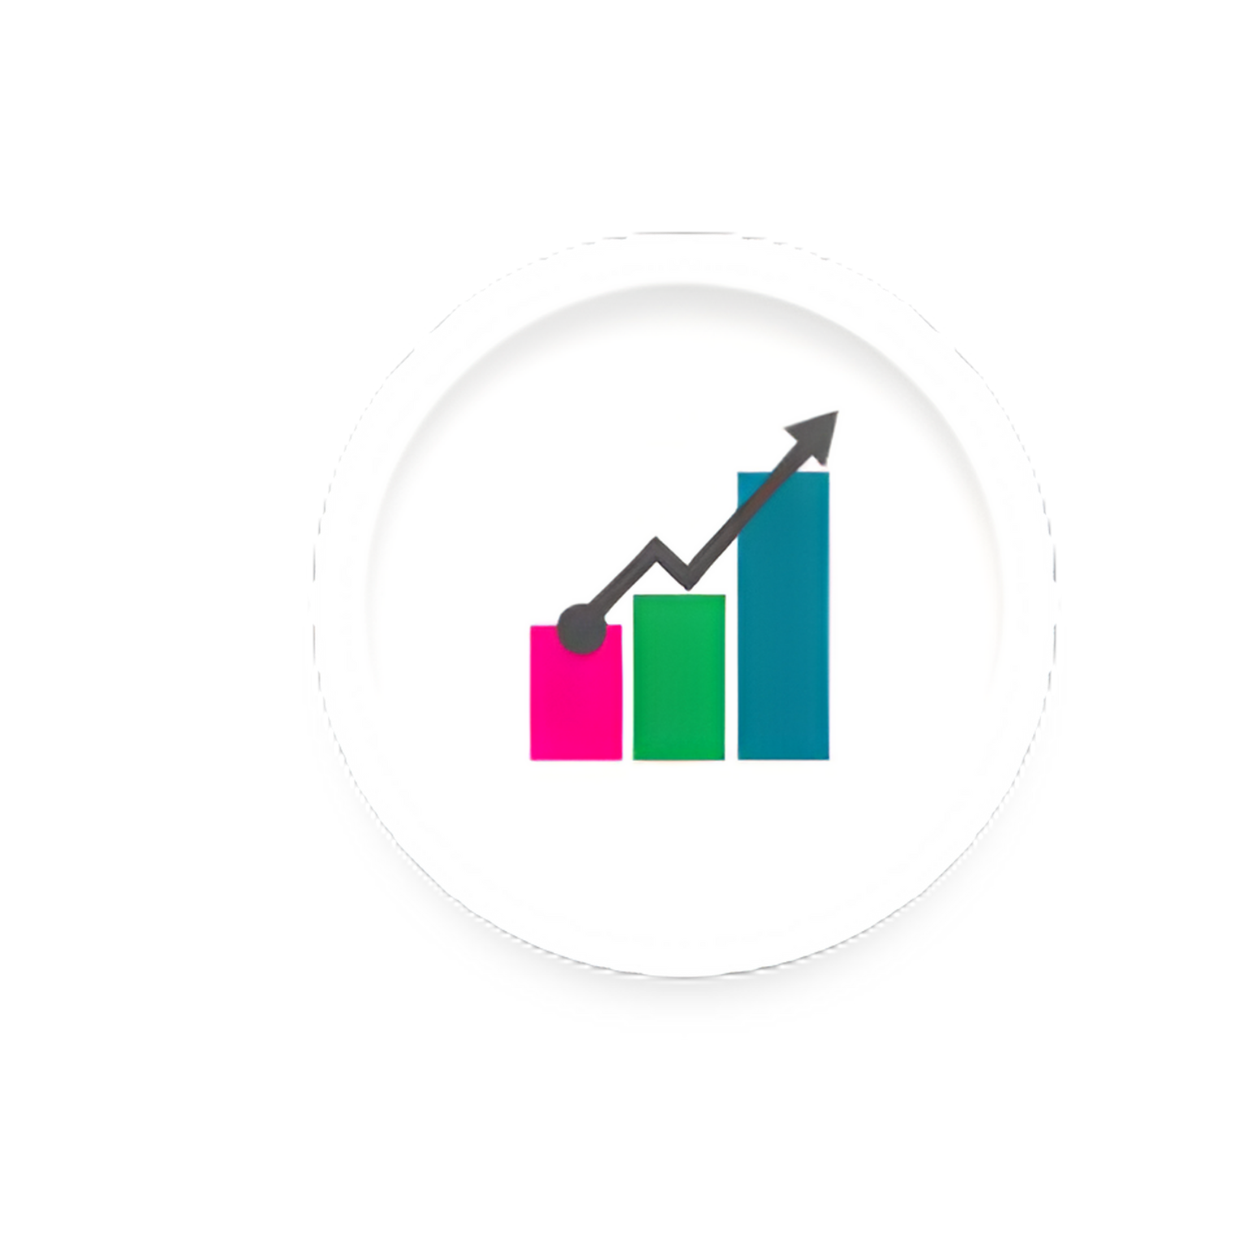
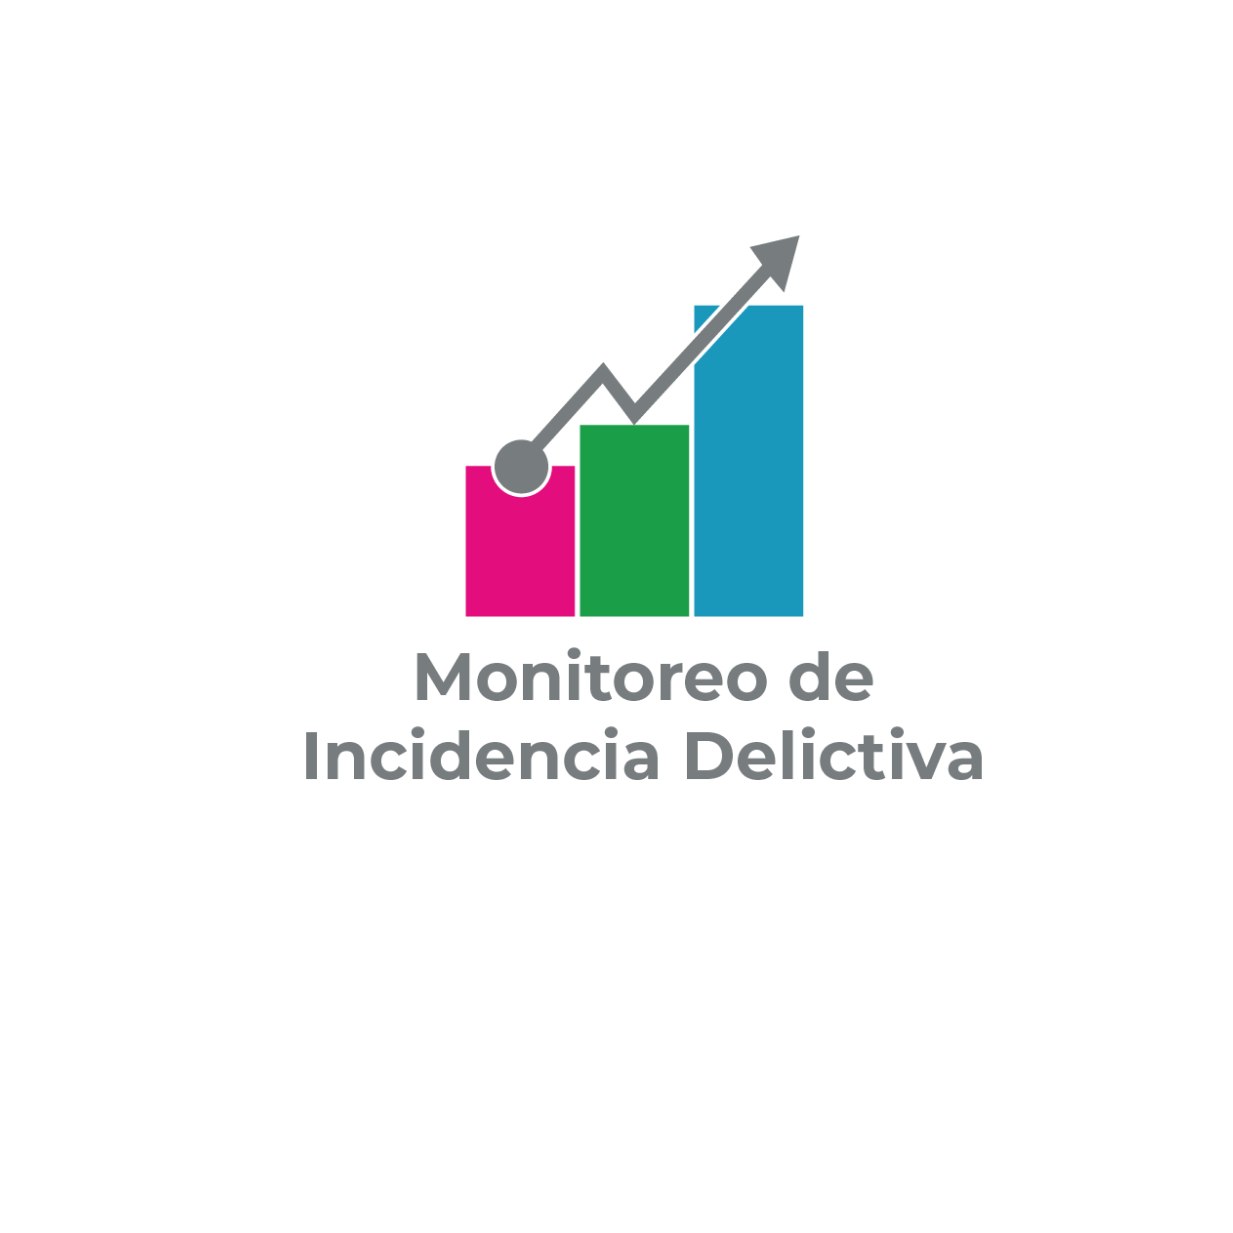
style: update AboutSection interactive image and styles

Changed region(s): [[0.2466, 0.1849, 0.8013, 0.6472], [0.6164, 0.7705, 0.6472, 0.8013], [0.5547, 0.7705, 0.5856, 0.8013]]

diff --git a/cci-svelte/src/lib/components/InteractiveProyectos.svelte b/cci-svelte/src/lib/components/InteractiveProyectos.svelte
@@ -19,7 +19,7 @@
 			id: 'hotspot_home',
 			href: '/',
 			x: 34.2,
-			y: 34.6,
+			y: 17.6,
 			width: 32.3,
 			height: 32.3,
 			title: 'CCI Laguna',
@@ -28,50 +28,10 @@
 			description: 'Organización ciudadana que promueve la participación cívica y transparencia'
 		},
 		{
-			id: 'hotspot_midlag',
-			href: '/midlag',
-			x: 12.7,
-			y: 3.5,
-			width: 27.9,
-			height: 27.9,
-			title: 'MIDLag',
-			image: '/images/proyectos/midlag-hotspot.png',
-			clipPath:
-				'polygon(2.03% 49.80%, 1.78% 52.64%, 4.22% 56.69%, 55.23% 96.59%, 60.83% 98.62%, 65.53% 97.16%, 76.72% 87.92%, 95.70% 75.67%, 97.57% 71.37%, 97.65% 68.13%, 76.80% 5.68%, 76.07% 4.14%, 73.97% 2.27%, 70.56% 0.73%, 66.75% 0.81%, 58.64% 4.46%, 33.66% 18.41%, 25.06% 24.98%, 9.73% 39.01%, 3.65% 45.66%, 2.03% 49.80%)',
-			description: 'Municipio Inteligente Digital - Plataforma de datos abiertos'
-		},
-		{
-			id: 'hotspot_observatorio',
-			href: 'https://observatoriodelalaguna.org.mx/',
-			x: 36.5,
-			y: -1,
-			width: 26.5,
-			height: 26.5,
-			title: 'Observatorio de la Laguna',
-			external: true,
-			image: '/images/proyectos/observatorio-hotspot.png',
-			clipPath:
-				'polygon(0.81% 18.57%, 1.46% 23.20%, 22.63% 89.54%, 26.60% 94.97%, 31.39% 96.43%, 47.61% 95.05%, 72.59% 95.62%, 77.86% 92.05%, 78.99% 90.02%, 99.11% 18.90%, 98.05% 14.44%, 95.38% 10.79%, 91.57% 9.08%, 73.64% 6.57%, 56.20% 5.11%, 43.96% 5.19%, 27.33% 7.14%, 8.52% 10.62%, 6.41% 11.52%, 2.11% 14.84%, 1.22% 16.14%, 0.81% 18.57%)',
-			description: 'Análisis y seguimiento de indicadores de seguridad ciudadana'
-		},
-		{
-			id: 'hotspot_mesa',
-			href: '/mesa-seguridad',
-			x: 59.6,
-			y: 4.1,
-			width: 27.5,
-			height: 27.5,
-			title: 'Mesa de Seguridad y Justicia',
-			image: '/images/proyectos/mesa-hotspot.png',
-			clipPath:
-				'polygon(1.95% 67.96%, 2.03% 74.37%, 5.03% 78.18%, 17.92% 85.48%, 36.33% 99.03%, 42.34% 99.19%, 44.28% 98.30%, 96.84% 55.39%, 98.54% 51.34%, 98.46% 47.04%, 96.51% 43.71%, 86.05% 33.90%, 70.15% 20.68%, 63.58% 16.22%, 52.15% 9.89%, 36.98% 2.60%, 30.98% 0.65%, 26.12% 0.81%, 24.41% 1.38%, 21.49% 5.11%, 1.95% 67.96%)',
-			description: 'Espacio de coordinación para mejorar la seguridad en Torreón'
-		},
-		{
 			id: 'hotspot_karewa',
 			href: 'https://www.karewalaguna.org/select-organization?redirectTo=%2F',
-			x: 67.8,
-			y: 60.4,
+			x: 68,
+			y: 43.1,
 			width: 28,
 			height: 28,
 			title: 'Karewa Laguna',
@@ -82,14 +42,14 @@
 			description: 'Liderazgo juvenil y empoderamiento ciudadano'
 		},
 		{
-			id: 'hotspot_labor',
-			href: '/labor-civica',
-			x: 50.08,
-			y: 71.8,
+			id: 'hotspot_mesa',
+			href: '/mesa-seguridad',
+			x: 50.1,
+			y: 54.8,
 			width: 28,
 			height: 28,
-			title: 'Labor Cívica',
-			image: '/images/proyectos/laborCivica-hotspot.png',
+			title: 'Mesa de Seguridad y Justicia',
+			image: '/images/proyectos/mesa-hotspot.png',
 			clipPath:
 				'polygon(7.30% 21.17%, 6.89% 22.55%, 11.92% 91.65%, 14.27% 95.13%, 16.87% 97.08%, 19.14% 97.81%, 21.57% 97.73%, 33.01% 95.46%, 51.50% 90.67%, 62.12% 87.02%, 78.10% 79.16%, 92.05% 71.13%, 94.97% 68.61%, 97.57% 64.56%, 97.57% 60.99%, 95.54% 57.02%, 56.12% 6.00%, 51.01% 2.51%, 45.90% 2.84%, 32.04% 9.33%, 10.71% 16.46%, 7.30% 21.17%)',
 			description: 'Fortalecimiento de la cultura cívica y participación ciudadana'
@@ -97,10 +57,10 @@
 		{
 			id: 'hotspot_regidor',
 			href: '/regidor-mx',
-			x: 24.8,
-			y: 73.1,
-			width: 27,
-			height: 27,
+			x: 24.6,
+			y: 55.9,
+			width: 27.5,
+			height: 27.5,
 			title: 'Regidor MX Laguna',
 			image: '/images/proyectos/regidor-hotspot.png',
 			clipPath:
@@ -110,10 +70,10 @@
 		{
 			id: 'hotspot_agenda',
 			href: '/agenda-anticorrupcion',
-			x: 73.4,
-			y: 37.5,
-			width: 27,
-			height: 27,
+			x: 73.6,
+			y: 20.2,
+			width: 27.6,
+			height: 27.6,
 			title: 'Agenda Anticorrupción',
 			image: '/images/proyectos/agenda-hotspot.png',
 			clipPath:
@@ -121,29 +81,29 @@
 			description: 'Estrategias locales contra la corrupción y la impunidad'
 		},
 		{
-			id: 'hotspot_tableros',
+			id: 'hotspot_midlag',
 			href: 'https://www.oics.ccilaguna.org.mx/',
-			x: 6,
-			y: 62,
-			width: 28,
-			height: 28,
-			title: 'Tableros OICS',
+			x: 5.6,
+			y: 44.9,
+			width: 28.5,
+			height: 28.5,
+			title: 'MIDLAG',
 			external: true,
-			image: '/images/proyectos/tablero-hotspot.png',
+			image: '/images/proyectos/midlag-hotspot.png',
 			clipPath:
 				'polygon(1.70% 32.68%, 2.03% 36.50%, 5.68% 43.47%, 21.90% 68.53%, 34.31% 81.91%, 47.28% 93.84%, 51.18% 96.35%, 55.56% 97.49%, 57.34% 97.40%, 61.15% 94.73%, 97.24% 41.93%, 98.95% 36.17%, 97.24% 31.55%, 87.35% 21.09%, 74.13% 3.24%, 68.78% 1.46%, 67.07% 1.54%, 5.43% 26.60%, 3.00% 29.28%, 1.70% 32.68%)',
 			description: 'Indicadores de corrupción y sistema local anticorrupción'
 		},
 		{
-			id: 'hotspot_monitor',
-			href: 'https://monitorcpc.ccilaguna.org.mx/',
-			x: 0.1,
-			y: 40.2,
-			width: 27,
-			height: 27,
-			title: 'Monitor CPC',
+			id: 'hotspot_observatorio',
+			href: 'https://observatoriodelalaguna.org.mx/',
+			x: -1.5,
+			y: 22.9,
+			width: 27.5,
+			height: 27.5,
+			title: 'Observatorio de la Laguna',
 			external: true,
-			image: '/images/proyectos/monitor-hotspot.png',
+			image: '/images/proyectos/observatorio-hotspot.png',
 			clipPath:
 				'polygon(6.20% 35.00%, 6.40% 55.00%, 9.20% 72.60%, 13.60% 91.00%, 19.00% 97.20%, 24.60% 97.20%, 90.00% 73.00%, 95.40% 68.20%, 96.20% 63.00%, 94.00% 46.00%, 93.60% 24.00%, 88.60% 18.20%, 16.60% 1.80%, 10.60% 4.80%, 8.80% 8.40%, 6.20% 35.00%)',
 			description: 'Monitoreo ciudadano del Comité de Participación Ciudadana'
@@ -153,7 +113,7 @@
 
 <section class="proyectos-interactive">
 	<div class="svg-container">
-		<img src="/images/proyectosGroup.svg" alt="Proyectos CCI Laguna" />
+		<img src="/images/proyectos.png" alt="Proyectos CCI Laguna" />
 
 		<!-- Áreas interactivas superpuestas -->
 		{#each hotspots as hotspot}

diff --git a/cci-svelte/src/lib/components/AboutSection.svelte b/cci-svelte/src/lib/components/AboutSection.svelte
@@ -17,10 +17,10 @@
 <style>
 	.about-section {
 		background: var(--bg-about);
-		padding: 10px 50px 90px 50px;
+		padding: 5px 50px 20px 50px;
 		display: grid;
 		grid-template-columns: 1fr 1fr;
-		gap: 60px;
+		gap: 20px;
 		align-items: center;
 		transition: background 0.3s ease;
 	}
@@ -46,7 +46,7 @@
 	}
 
 	.about-content p {
-		font-size: 18px;
+		font-size: 25px;
 		line-height: 1.8;
 		color: var(--text-primary);
 		transition: color 0.3s ease;
@@ -56,7 +56,7 @@
 
 	@media (max-width: 1024px) {
 		.about-section {
-			padding: 50px 40px 80px 40px;
+			padding: 20px 40px 80px 40px;
 			gap: 40px;
 		}
 

diff --git a/cci-svelte/src/routes/+page.svelte b/cci-svelte/src/routes/+page.svelte
@@ -35,7 +35,7 @@
 			promover y organizar la participación ciudadana para
 			desarrollar buenos gobiernos y mejores ciudadanos en la
 			Comarca Lagunera.`,
-		image: '/images/proyectosGroup.svg'
+		image: '/images/proyectos.png'
 	};
 
 	// --- TRANSFORMAR LOGOS DE SANITY ---
